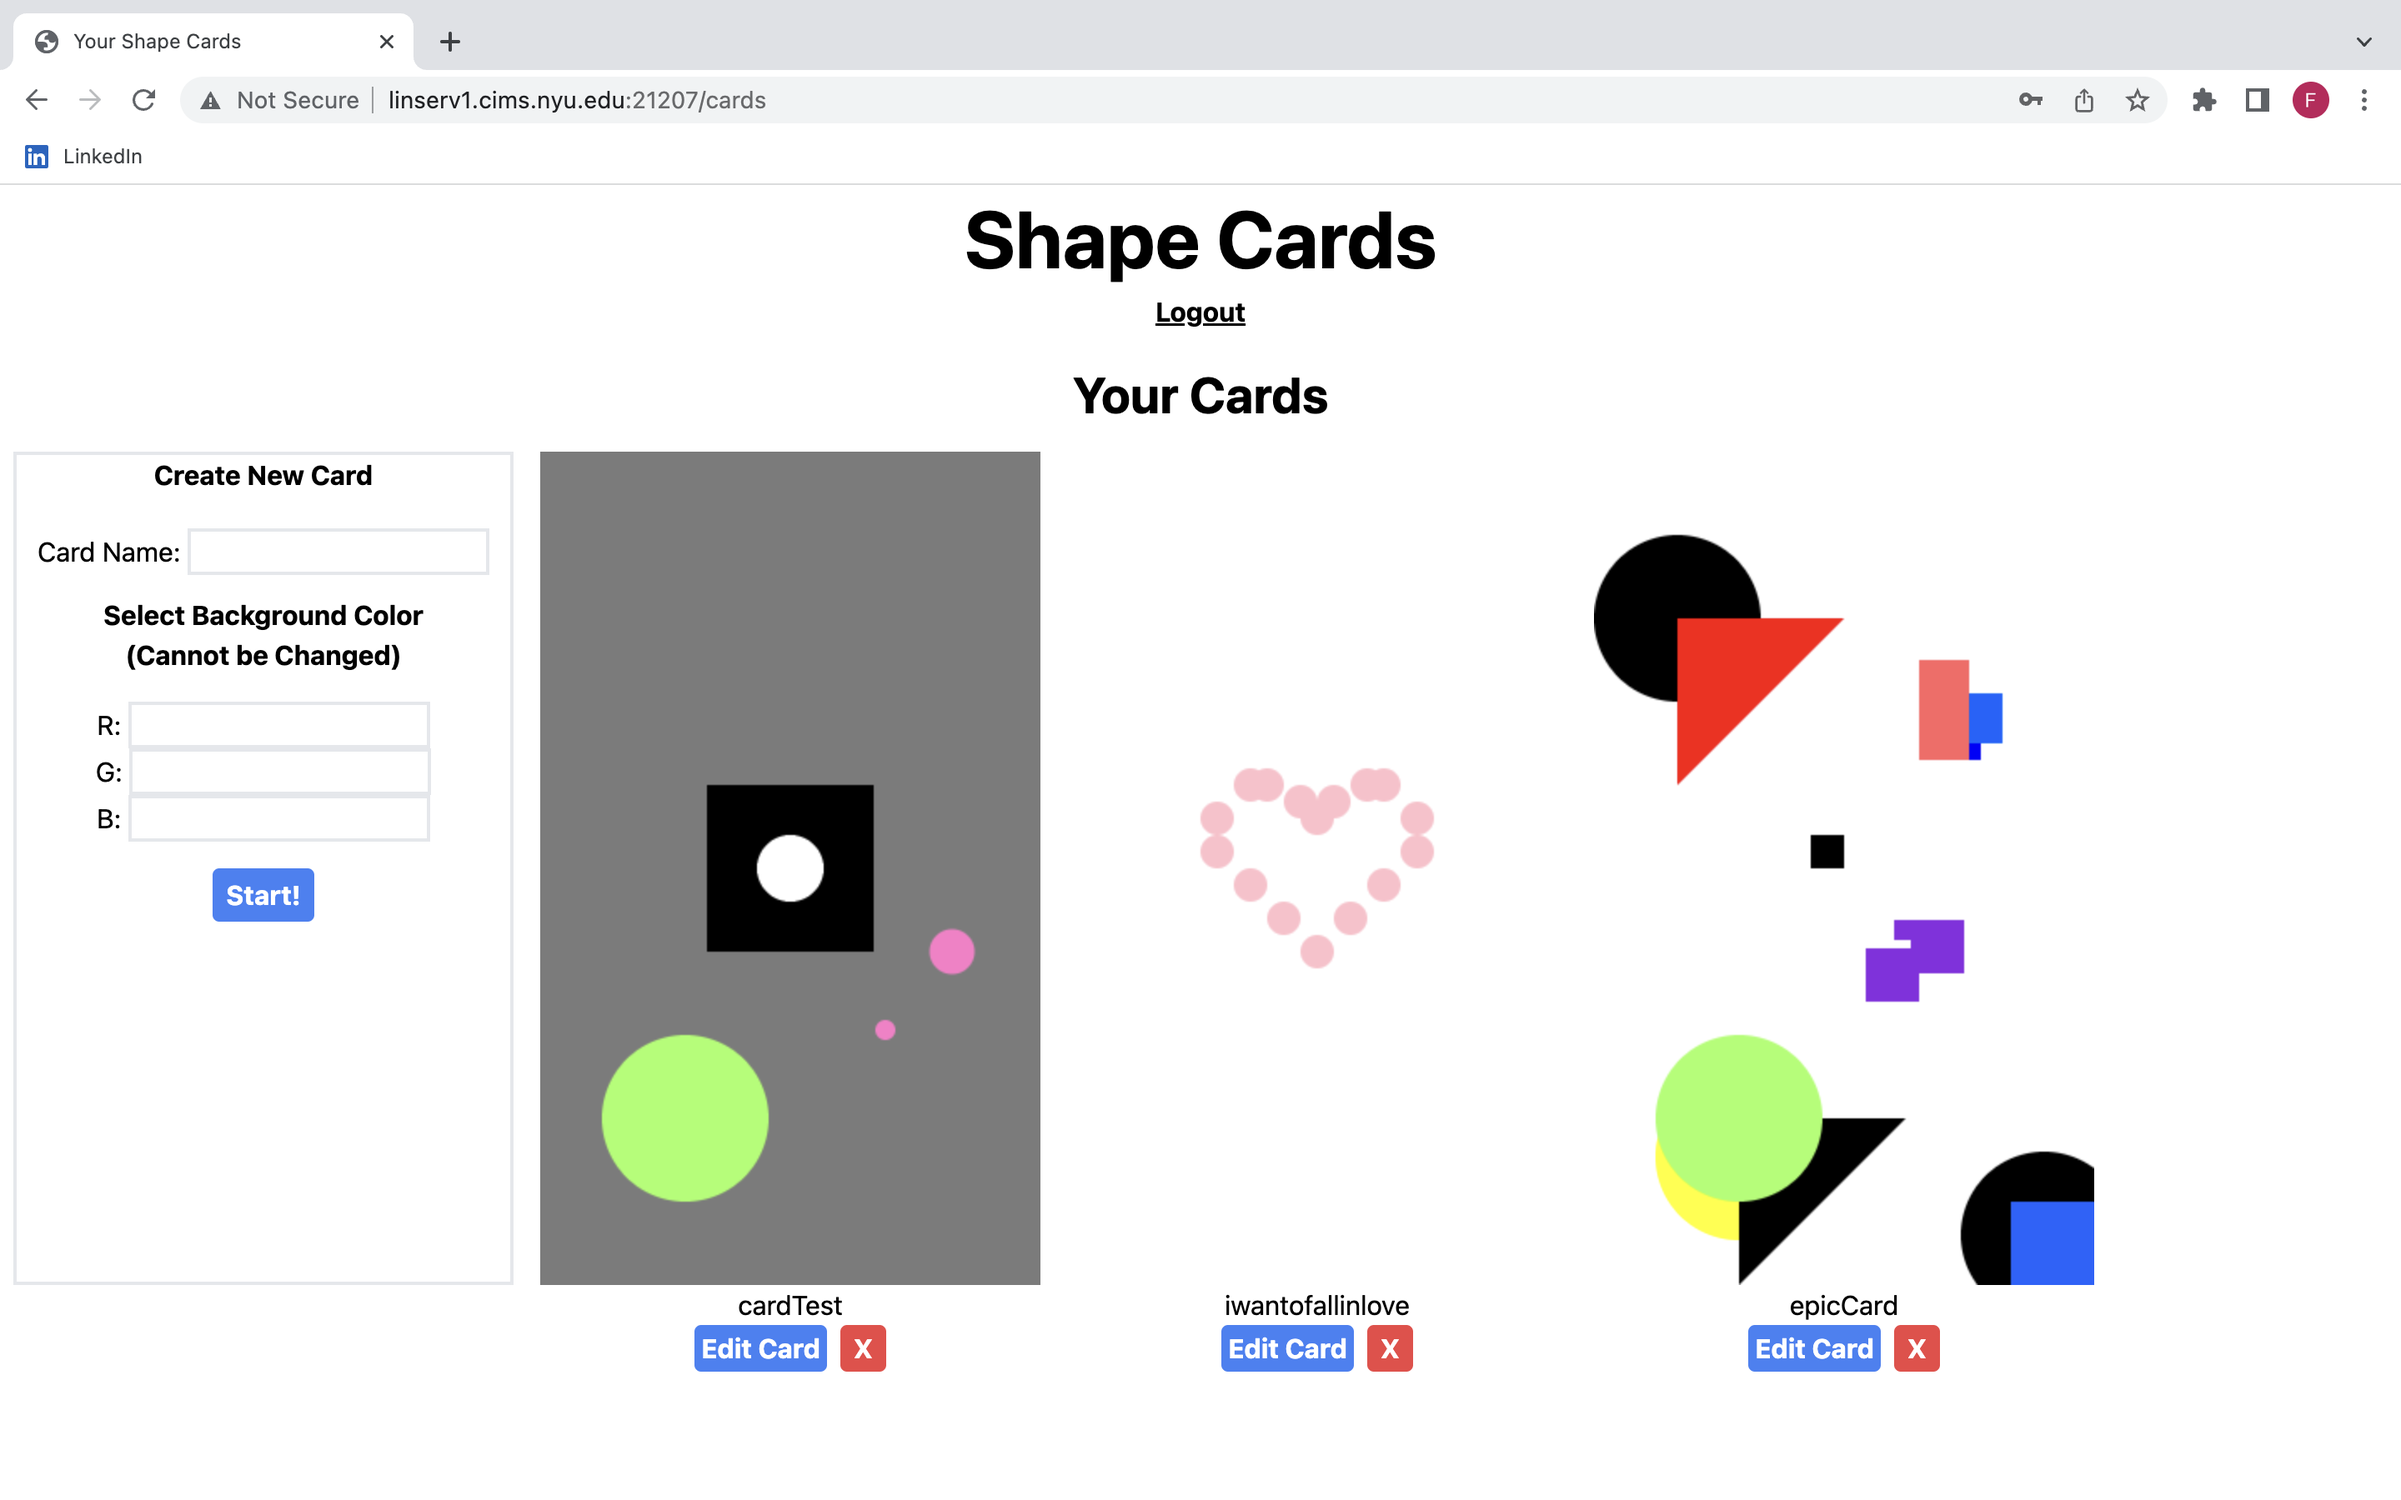
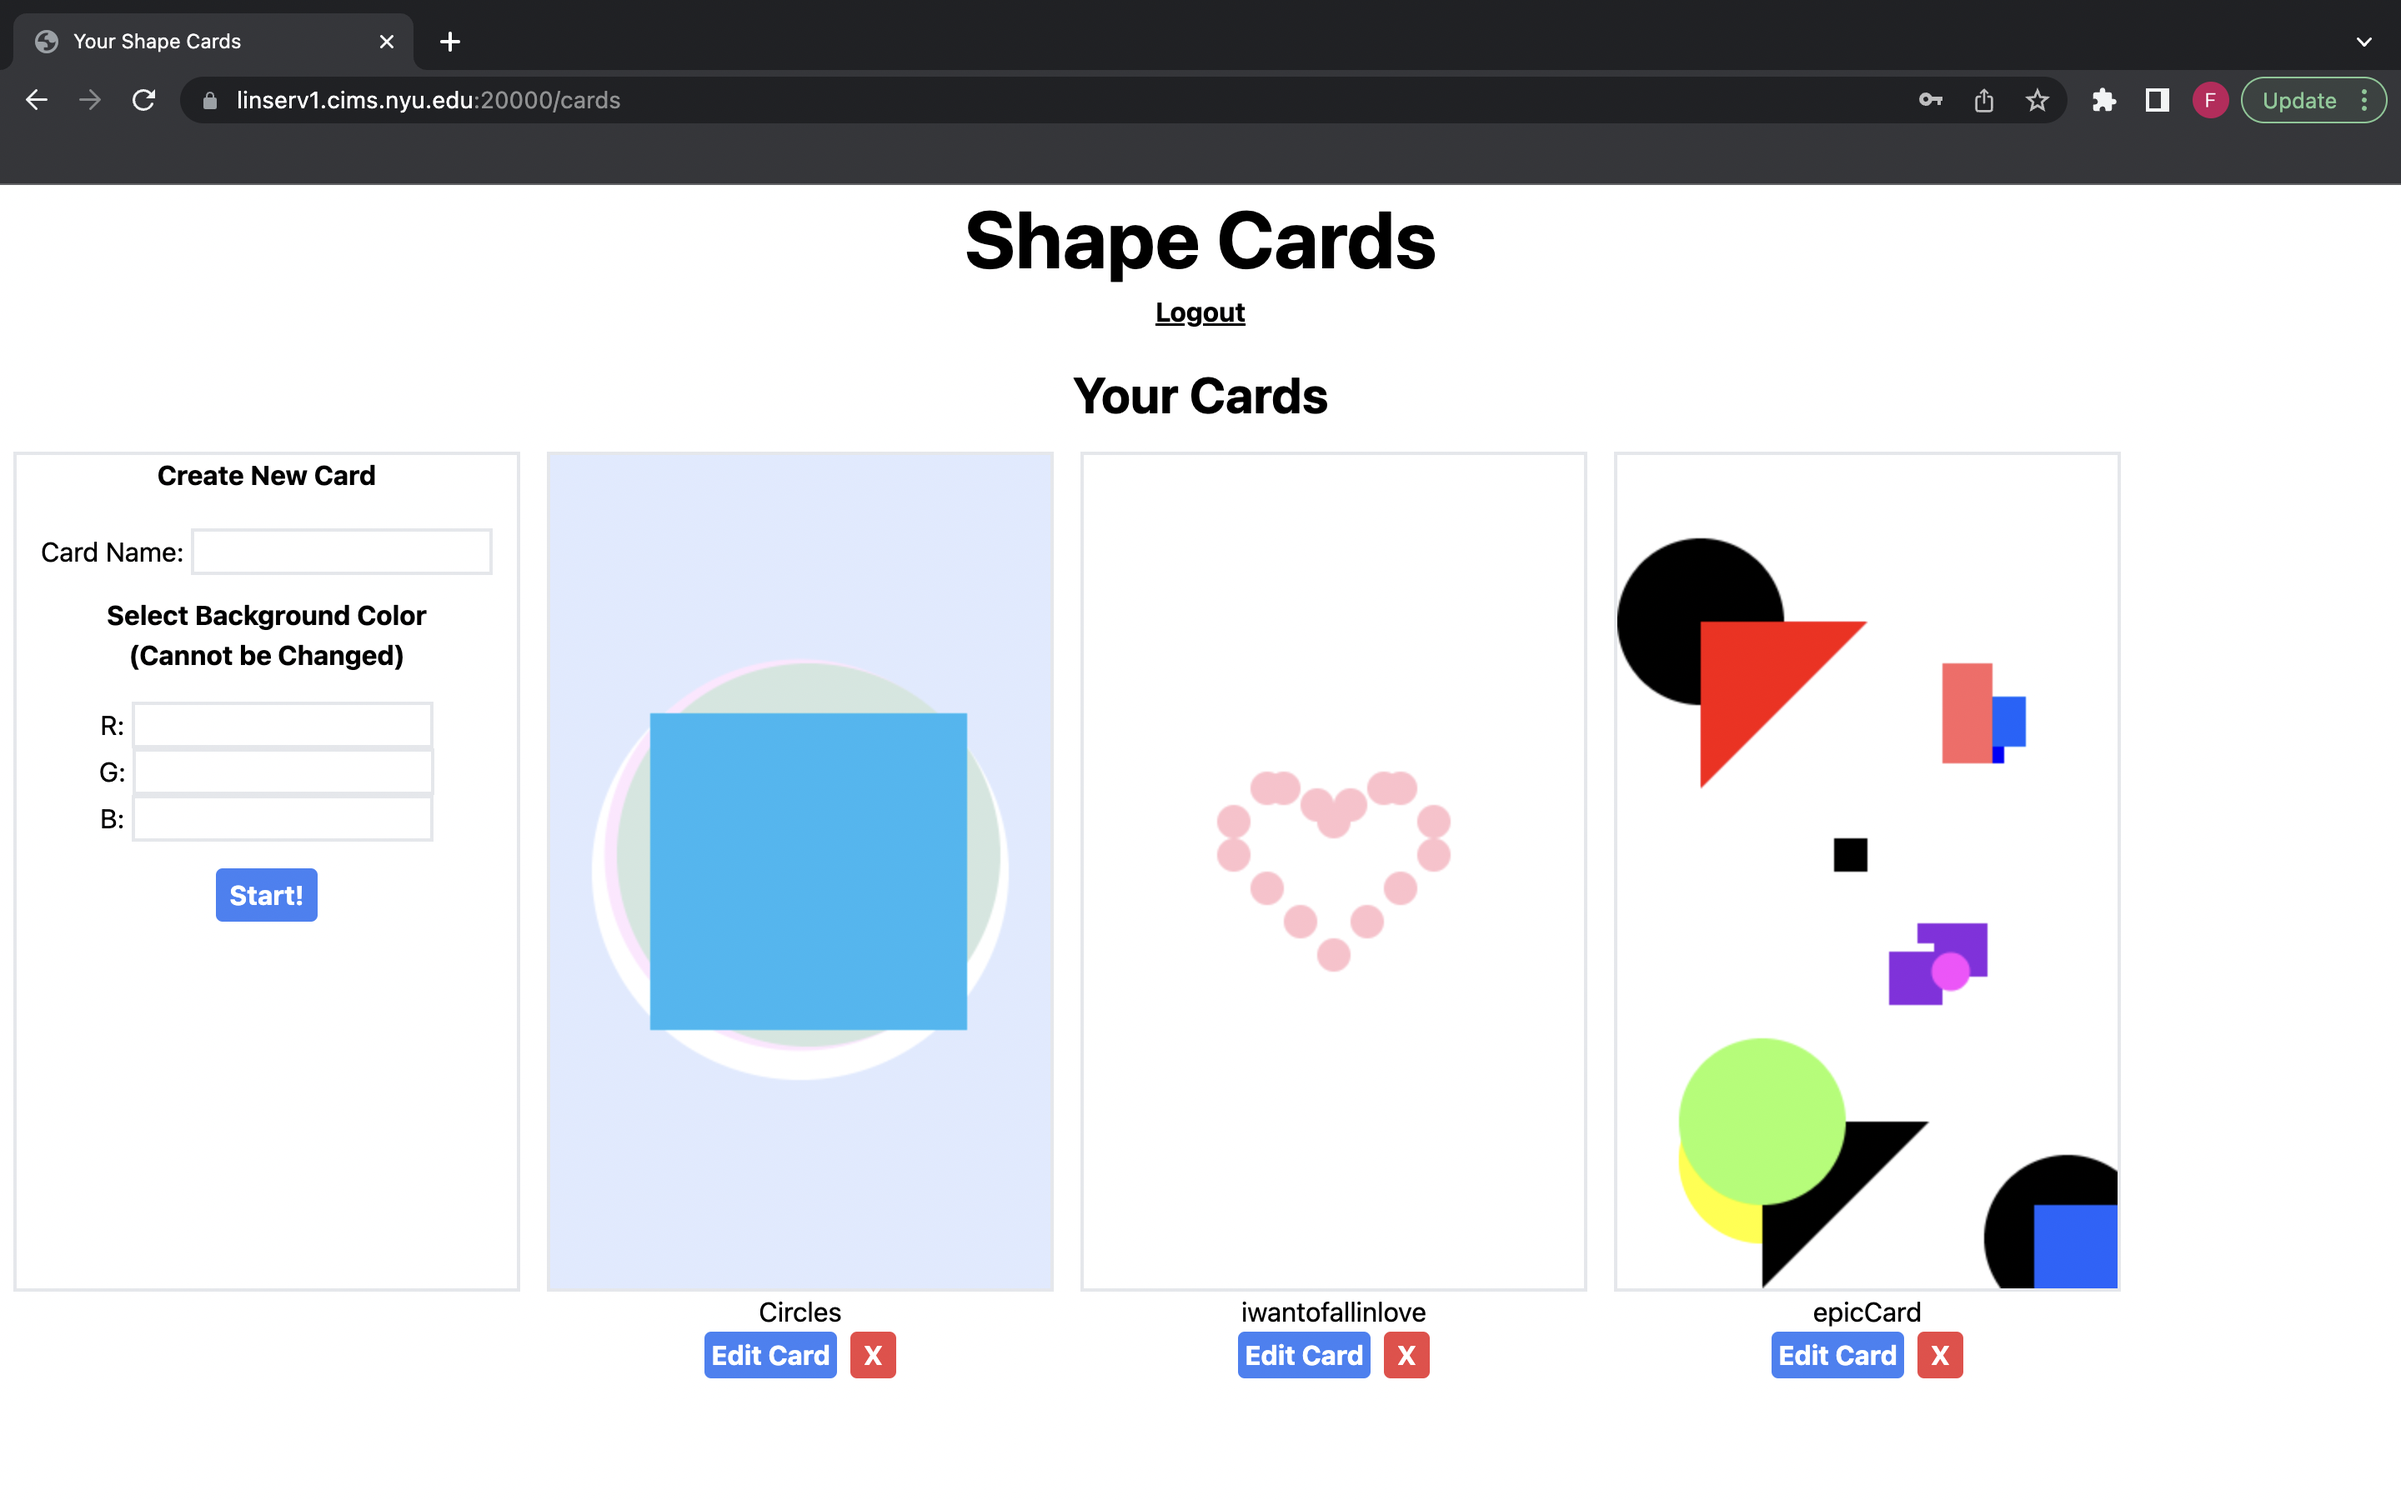
Made triangles equilateral, added diamond shape

diff --git a/public/scripts/cards.js b/public/scripts/cards.js
@@ -11,6 +11,8 @@ function drawShapePreview(shape, ctx){
     ctx.strokeStyle = `rgb(${(100+shape.color.r)%256}, ${(100+shape.color.g)%256}, ${(100+shape.color.b)%256})`;
     ctx.setLineDash([Math.min(Math.ceil(size/10), 15), Math.min(Math.floor(size/10), 15)]);
     
+    shape.pos.x= +shape.pos.x;
+    shape.pos.y= +shape.pos.y;
     ctx.beginPath();
     switch(shape.type){
         case 'Square':
@@ -20,10 +22,18 @@ function drawShapePreview(shape, ctx){
             ctx.arc(shape.pos.x, shape.pos.y, size/2, 0, 2 * Math.PI);
             break;
         case 'Triangle':
-            ctx.moveTo(shape.pos.x, shape.pos.y);
-            ctx.lineTo(+shape.pos.x + size, shape.pos.y);
-            ctx.lineTo(shape.pos.x, +shape.pos.y +size);
+            const h = size*Math.sqrt(3)/2;
+            ctx.moveTo(shape.pos.x-size/2, shape.pos.y+h/3);
+            ctx.lineTo(shape.pos.x + size/2, shape.pos.y+h/3);
+            ctx.lineTo(shape.pos.x, shape.pos.y-2*h/3);
+            ctx.lineTo(shape.pos.x-size/2, shape.pos.y+h/3);
             break;
+        case 'Diamond':
+            ctx.moveTo(shape.pos.x-size/2, shape.pos.y);
+            ctx.lineTo(shape.pos.x, shape.pos.y+size/2);
+            ctx.lineTo(shape.pos.x+size/2, shape.pos.y);
+            ctx.lineTo(shape.pos.x, shape.pos.y-size/2);
+            ctx.lineTo(shape.pos.x-size/2, shape.pos.y);
     }
     ctx.fill();
     ctx.stroke();
@@ -34,24 +44,32 @@ function drawShapePreview(shape, ctx){
 function drawShape(shape, ctx){
     ctx.fillStyle = `rgb(${shape.color.r}, ${shape.color.g}, ${shape.color.b})`;
     //Determine which shape to draw
+    shape.pos.x= +shape.pos.x;3
+    shape.pos.y= +shape.pos.y;
     const size = shape.size??20;
+    ctx.beginPath();
     switch(shape.type){
         case 'Square':
-            ctx.fillRect(shape.pos.x-size/2, shape.pos.y-size/2, size, size);
+            ctx.rect(shape.pos.x-size/2, shape.pos.y-size/2, size, size);
             break;
         case 'Circle':
-            ctx.beginPath();
             ctx.arc(shape.pos.x, shape.pos.y, size/2, 0, 2 * Math.PI);
-            ctx.fill();
             break;
         case 'Triangle':
-            ctx.beginPath();
-            ctx.moveTo(shape.pos.x, shape.pos.y);
-            ctx.lineTo(+shape.pos.x + size, shape.pos.y);
-            ctx.lineTo(shape.pos.x, +shape.pos.y +size);
-            ctx.fill();
+            const h = size*Math.sqrt(3)/2;
+            ctx.moveTo(shape.pos.x-size/2, shape.pos.y+h/3);
+            ctx.lineTo(shape.pos.x + size/2, shape.pos.y+h/3);
+            ctx.lineTo(shape.pos.x, shape.pos.y-2*h/3);
+            ctx.lineTo(shape.pos.x-size/2, shape.pos.y+h/3);
             break;
+        case 'Diamond':
+            ctx.moveTo(shape.pos.x-size/2, shape.pos.y);
+            ctx.lineTo(shape.pos.x, shape.pos.y+size/2);
+            ctx.lineTo(shape.pos.x+size/2, shape.pos.y);
+            ctx.lineTo(shape.pos.x, shape.pos.y-size/2);
+            ctx.lineTo(shape.pos.x-size/2, shape.pos.y);
     }
+    ctx.fill();
 }
 
 //Card is the object returned by the database, canvas is the html element

diff --git a/public/cards.html b/public/cards.html
@@ -61,6 +61,7 @@
                         <option>Square</option>
                         <option>Triangle</option>
                         <option>Circle</option>
+                        <option>Diamond</option>
                     </select>
                     </label>
                     <div>
